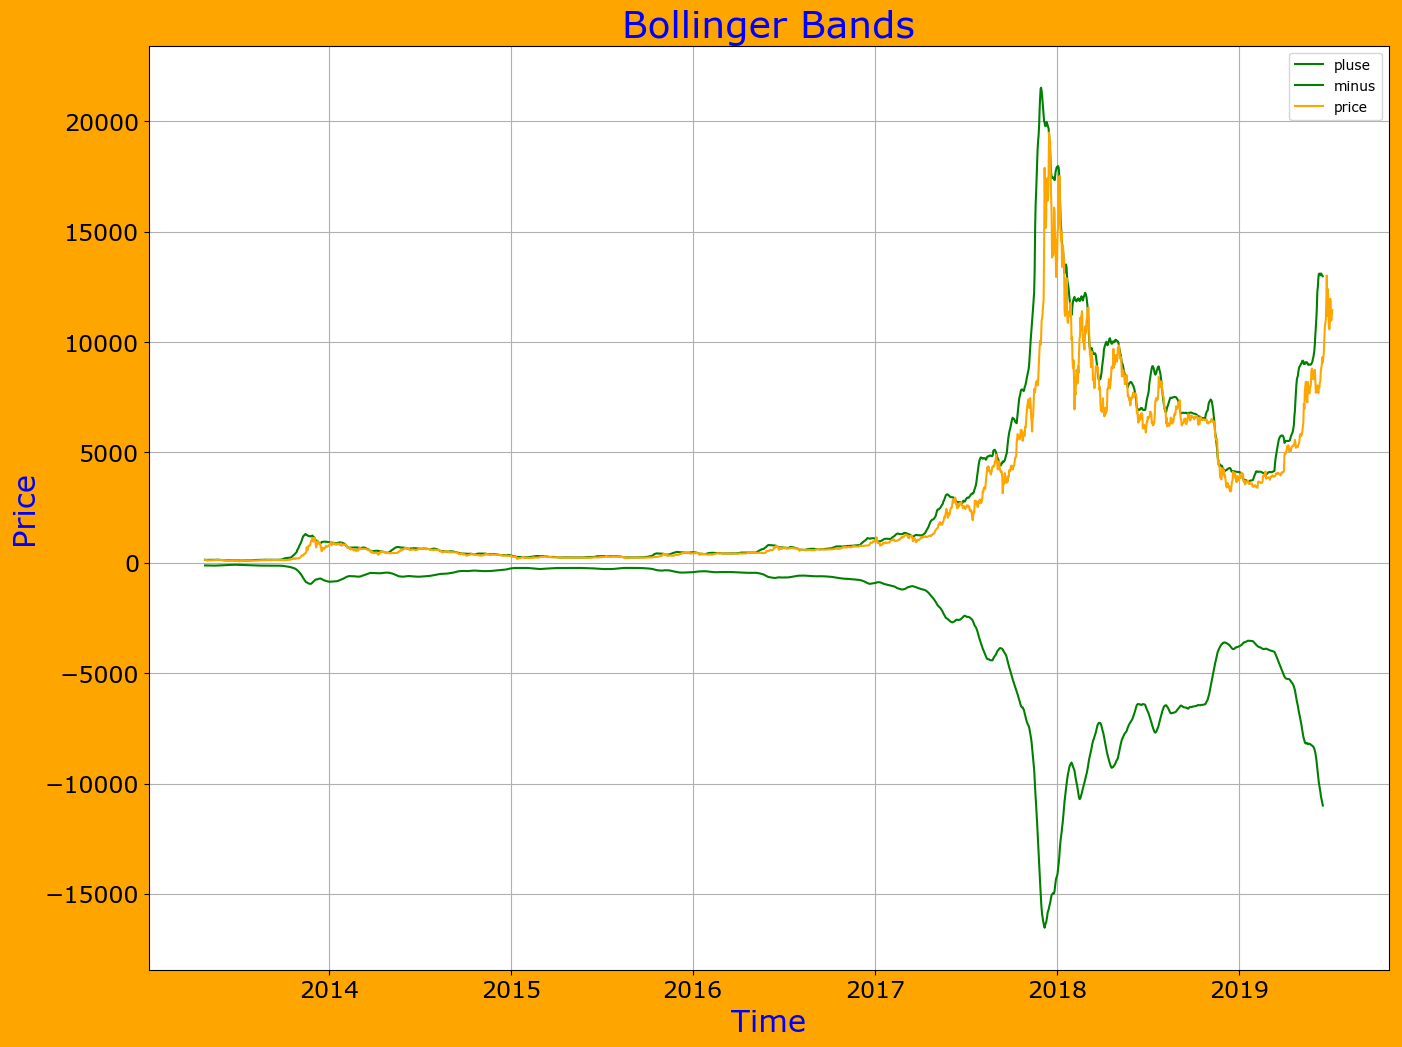
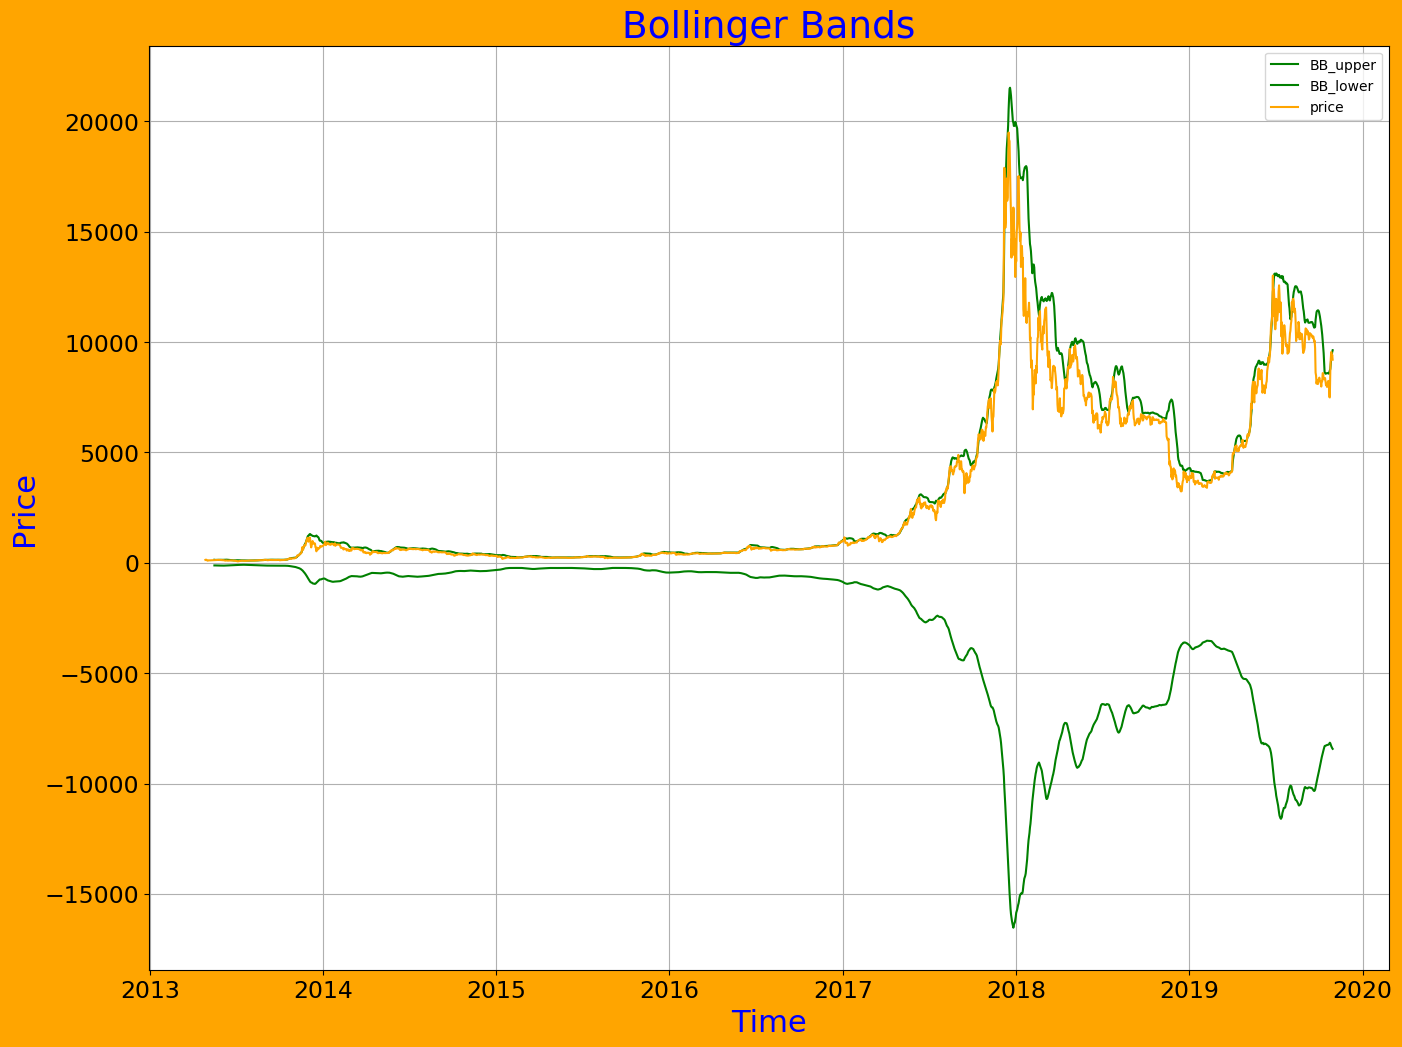
V-1.1.0

diff --git a/PriceIndices/price_indicators.py b/PriceIndices/price_indicators.py
@@ -27,10 +27,10 @@ class Indices:
             ln_ratio_btc = pd.DataFrame(list(np.diff(np.log(data['price']))))
             bvol_btc = pd.DataFrame(ln_ratio_btc.rolling(30).std() * np.sqrt(365))
             bvol_btc.columns = ['BVOL_Index']
-            data1 = pd.concat([data, bvol_btc], join='inner', axis=1)
-            data1 = data1.dropna()
-            data1 = data1.sort_values(by='date', ascending=False).reset_index(drop=True)
-            return data1
+            data = pd.concat([data, bvol_btc], join='inner', axis=1)
+            data = data.dropna()
+            data = data.sort_values(by='date', ascending=False).reset_index(drop=True)
+            return data
         except Exception as e:
             return e
 
@@ -40,7 +40,7 @@ class Indices:
         :param df: Pandas DataFrame with price column
         """
         try:
-            data = df
+            data = df.copy()
             fig, ax = plt.subplots(figsize=(14, 12))
             rect = fig.patch
             rect.set_facecolor('yellow')
@@ -90,7 +90,7 @@ class Indices:
         :return: pandas DataFrame
         """
         try:
-            data = df
+            data = df.copy()
             data = data.sort_values(by='date').reset_index(drop=True)
             data['price_change'] = data['price'] - data['price'].shift(1)
             data.dropna(inplace=True)
@@ -111,15 +111,16 @@ class Indices:
 
             data['RSI_2'] = 100 * (1 - (1 / (1 + data['RS_Smooth'])))
             data = data.fillna(0).reset_index(drop=True)
-            data1 = data.sort_values(by='date', ascending=False).reset_index(drop=True)
-            return data1
+            data.drop(['gain', 'loss', 'price_change', 'gain_average', 'loss_average', 'RS'], axis=1, inplace=True)
+            data = data.sort_values(by='date', ascending=False).reset_index(drop=True)
+            return data
 
         except Exception as e:
             return e
 
-    def get_rsi_graph(self, rsi_data):
+    def get_rsi_graph(rsi_data):
         try:
-            df = rsi_data
+            df = rsi_data.copy()
             fig, ax = plt.subplots(figsize=(14, 12))
             rect = fig.patch
             rect.set_facecolor('yellow')
@@ -176,18 +177,19 @@ class Indices:
         """
 
         try:
-            data = df
+            data = df.copy()
             data = data.sort_values(by='date').reset_index(drop=True)
             data['SMA'] = data['price'].rolling(days).mean()
             data['SD'] = data['price'].rolling(days).std()
-            data['plus'] = data['SMA'] + data['SD']*2
-            data['minus'] = data['SMA'] - data['SMA']*2
-            data1 = data.sort_values(by='date', ascending=False).reset_index(drop=True)
+            data['BB_upper'] = data['SMA'] + data['SD']*2
+            data['BB_lower'] = data['SMA'] - data['SMA']*2
+            data.drop(['SD', 'SMA'], axis=1, inplace=True)
+            data = data.sort_values(by='date', ascending=False).reset_index(drop=True)
             while plot:
                 fig, ax = plt.subplots(figsize=(16, 12))
-                plt.plot(data1['date'], data1['plus'], color='g')
-                plt.plot(data1['date'], data1['minus'], color='g')
-                plt.plot(data1['date'], data1['price'], color='orange')
+                plt.plot(data['date'], data['BB_upper'], color='g')
+                plt.plot(data['date'], data['BB_lower'], color='g')
+                plt.plot(data['date'], data['price'], color='orange')
                 plt.legend()
                 plt.xlabel('Time', color='b', fontsize=22)
                 plt.ylabel('Price', color='b', fontsize=22)
@@ -198,7 +200,7 @@ class Indices:
                 plt.savefig('bollinger_bands.png', bbox_inches='tight', facecolor='orange')
                 plt.show()
                 break
-            return data1
+            return data
 
         except Exception as e:
             return e
@@ -222,16 +224,17 @@ class Indices:
         :return: pandas DataFrame
         """
         try:
-            data = df
+            data = df.copy()
             data['EMA_12'] = data['price'].ewm(span=12, adjust=False).mean()
             data['EMA_26'] = data['price'].ewm(span=26, adjust=False).mean()
             data['MACD'] = data['EMA_12'] - data['EMA_26']
-            data1 = data.dropna()
+            data.drop(['EMA_12', 'EMA_26'], axis=1, inplace=True)
+            data = data.dropna()
 
             while plot:
                 fig, ax = plt.subplots(figsize=(14, 9))
-                plt.plot(data1['date'], data1['price'], color='r', label='Price')
-                plt.plot(data1['date'], data1['MACD'], color='b', label='MACD')
+                plt.plot(data['date'], data['price'], color='r', label='Price')
+                plt.plot(data['date'], data['MACD'], color='b', label='MACD')
                 plt.legend()
                 plt.title('Price and MACD Plot', fontsize=28, color='b')
                 plt.xlabel('Time', color='b', fontsize=19)
@@ -240,7 +243,7 @@ class Indices:
                 fig.set_facecolor('orange')
                 plt.show()
                 break
-            return data1
+            return data
 
         except Exception as e:
             return print('MACD Error - {}'.format(e))
@@ -254,15 +257,15 @@ class Indices:
         :return: pandas DataFrame
         """
         try:
-            data = df
+            data = df.copy()
             data = data.sort_values(by='date').reset_index(drop=True)
             data['SMA'] = data['price'].rolling(days).mean()
-            data1 = data.dropna()
-            data1 = data1.sort_values(by='date', ascending=False).reset_index(drop=True)
+            data = data.dropna()
+            data = data.sort_values(by='date', ascending=False).reset_index(drop=True)
             while plot:
                 fig, ax = plt.subplots(figsize=(14, 9))
-                plt.plot(data1['date'], data1['price'], color='r', label='Price')
-                plt.plot(data1['date'], data1['SMA'], color='b', label='SMA')
+                plt.plot(data['date'], data['price'], color='r', label='Price')
+                plt.plot(data['date'], data['SMA'], color='b', label='SMA')
                 plt.legend()
                 plt.title('Price and SMA Plot', fontsize=28, color='b')
                 plt.xlabel('Time', color='b', fontsize=19)
@@ -271,7 +274,7 @@ class Indices:
                 fig.set_facecolor('orange')
                 plt.show()
                 break
-            return data1
+            return data
 
         except Exception as e:
             return print('SMA Error - {}'.format(e))
@@ -288,16 +291,14 @@ class Indices:
         :return:
         """
         try:
-            data = df
+            data = df.copy()
             for period in periods:
                 data['EMA_{}'.format(period)] = data['price'].ewm(span=period, adjust=False).mean()
-                data = data.dropna()
-            data1 = data
             while plot:
                 fig, ax = plt.subplots(figsize=(14, 9))
-                plt.plot(data1['date'], data1['price'], color='r', label='Price')
+                plt.plot(data['date'], data['price'], color='r', label='Price')
                 for period in periods:
-                    plt.plot(data1['date'], data1['EMA_{}'.format(period)], label='EMA_{}'.format(period))
+                    plt.plot(data['date'], data['EMA_{}'.format(period)], label='EMA_{}'.format(period))
                 plt.legend()
                 plt.title('Price and EMA Plot', fontsize=28, color='b')
                 plt.xlabel('Time', color='b', fontsize=19)
@@ -306,7 +307,7 @@ class Indices:
                 fig.set_facecolor('orange')
                 plt.show()
                 break
-            return data1
+            return data
 
         except Exception as e:
             return print('EMA Error - {}'.format(e))

diff --git a/README.md b/README.md
@@ -61,12 +61,12 @@ from PriceIndices import MarketHistory, Indices
 
 >>> df_bvol = Indices.get_bvol_index(price_data )  
 >>> df_bvol.head()
-        date     price  BVOL_Index
-0 2019-06-22  10701.69    0.636482
-1 2019-06-21  10144.56    0.636414
-2 2019-06-20   9527.16    0.619886
-3 2019-06-19   9273.52    0.608403
-4 2019-06-18   9081.76    0.604174
+        date    price  BVOL_Index
+0 2019-10-29  9427.69    0.711107
+1 2019-10-28  9256.15    0.707269
+2 2019-10-27  9551.71    0.709765
+3 2019-10-26  9244.97    0.698544
+4 2019-10-25  8660.70    0.692656
 
 ```
 
@@ -88,13 +88,14 @@ This will return a plot of BVOL index against time also save volatility index pl
 
 >>> df_rsi = Indices.get_rsi(price_data)   
 
->>> print(df_rsi.tail())
-           date   price  price_change   gain   loss  gain_average  loss_average        RS      RSI_1  RS_Smooth      RSI_2
-2217 2013-05-02  105.21          7.46   7.46   0.00      1.532143      2.500000  0.612857  37.998229   0.561117  35.943306
-2218 2013-05-01  116.99         11.78  11.78   0.00      2.373571      2.175714  1.090939  52.174596   0.975319  49.375257
-2219 2013-04-30  139.00         22.01  22.01   0.00      3.945714      1.981429  1.991348  66.570258   1.869110  65.145981
-2220 2013-04-29  144.54          5.54   5.54   0.00      3.878571      1.981429  1.957462  66.187226   2.206422  68.812592
-2221 2013-04-28  134.21        -10.33   0.00  10.33      3.878571      2.506429  1.547449  60.745050   1.397158  58.283931
+>>> print(df_rsi.head())
+        date    price       RSI_1  RS_Smooth      RSI_2
+0 2019-10-30  9205.73      64.641855   1.624958  61.904151
+1 2019-10-29  9427.69      65.707097   1.709072  63.086984
+2 2019-10-28  9256.15      61.333433   1.597755  61.505224
+3 2019-10-27  9551.71      66.873327   2.012345  66.803267
+4 2019-10-26  9244.97      63.535368   1.791208  64.173219
+
 
 ```
 
@@ -114,13 +115,14 @@ This will return a plot of RSI against time and also save RSI plot in your worki
 
 ```python
 >>> df_bb = Indices.get_bollinger_bands(price_data , 20, plot=True) 
->>> df_bb.tail()
-           date   price       SMA         SD       pluse     minus
-2243 2013-05-02  105.21  115.2345   6.339257  127.913013 -115.2345
-2244 2013-05-01  116.99  114.9400   6.097587  127.135174 -114.9400
-2245 2013-04-30  139.00  115.7900   8.016499  131.822998 -115.7900
-2246 2013-04-29  144.54  116.9175  10.217936  137.353372 -116.9175
-2247 2013-04-28  134.21  117.4530  10.842616  139.138233 -117.4530
+>>> df_bb.head()
+        date    price     BB_upper   BB_lower
+0 2019-10-30  9205.73  9635.043581 -8428.5855
+1 2019-10-29  9427.69  9550.707153 -8397.6225
+2 2019-10-28  9256.15  9408.263164 -8356.0250
+3 2019-10-27  9551.71  9268.466516 -8304.6565
+4 2019-10-26  9244.97  9003.752779 -8239.3520
+
 
 """
 This will also save Bollingers bands plot in your working directory as 'bollinger_bands.png'
@@ -139,12 +141,13 @@ This will also save Bollingers bands plot in your working directory as 'bollinge
 """This will return a pandas DataFrame and save EMA plot as 'macd.png' in working directory. 
 """"
 >>> df_macd.head()
-         date    price      EMA_12        EMA_26        MACD
-19 2019-06-18  9081.76    10415.979340  10886.327599 -470.348259
-20 2019-06-17  9320.35    10247.420980  10770.329259 -522.908279
-21 2019-06-16  8994.49    10054.662368  10638.785610 -584.123242
-22 2019-06-15  8838.38    9867.542004   10505.422231 -637.880228
-23 2019-06-14  8693.83    9686.970926   10371.230214 -684.259288
+        date    price       MACD
+0 2019-10-30  9205.73   0.000000
+1 2019-10-29  9427.69  17.706211
+2 2019-10-28  9256.15  17.692715
+3 2019-10-27  9551.71  41.057952
+4 2019-10-26  9244.97  34.426864
+
 
 ```
 
@@ -157,12 +160,13 @@ This will also save Bollingers bands plot in your working directory as 'bollinge
 """This will return a pandas DataFrame and save EMA plot as 'sma.png' in working directory. 
 """"
 >>> df_sma.head()
-         date    price         SMA
-19 2019-06-18  9081.76  10998.4180
-20 2019-06-17  9320.35  10891.8930
-21 2019-06-16  8994.49  10781.1900
-22 2019-06-15  8838.38  10674.1860
-23 2019-06-14  8693.83  10548.1055
+        date    price          SMA
+0 2019-10-30  9205.73  8467.488000
+1 2019-10-29  9427.69  8400.797333
+2 2019-10-28  9256.15  8330.597333
+3 2019-10-27  9551.71  8268.254667
+4 2019-10-26  9244.97  8187.244667
+
 
 ```
 
@@ -176,12 +180,14 @@ This will also save Bollingers bands plot in your working directory as 'bollinge
 """"
 
 >>> df_ema.head()
-        date     price        EMA_20        EMA_70
-0 2019-07-07  11450.85  11450.850000  11450.850000
-1 2019-07-06  11208.55  11427.773810  11444.024648
-2 2019-07-05  10978.46  11384.982018  11430.910151
-3 2019-07-04  11215.44  11368.835159  11424.840569
-4 2019-07-03  11961.27  11425.257525  11439.951257
+        date    price       EMA_20       EMA_70
+0 2019-10-30  9205.73  9205.730000  9205.730000
+1 2019-10-29  9427.69  9226.869048  9211.982394
+2 2019-10-28  9256.15  9229.657710  9213.226552
+3 2019-10-27  9551.71  9260.329356  9222.761297
+4 2019-10-26  9244.97  9258.866561  9223.386895
+>>> 
+
 
 ```
 
